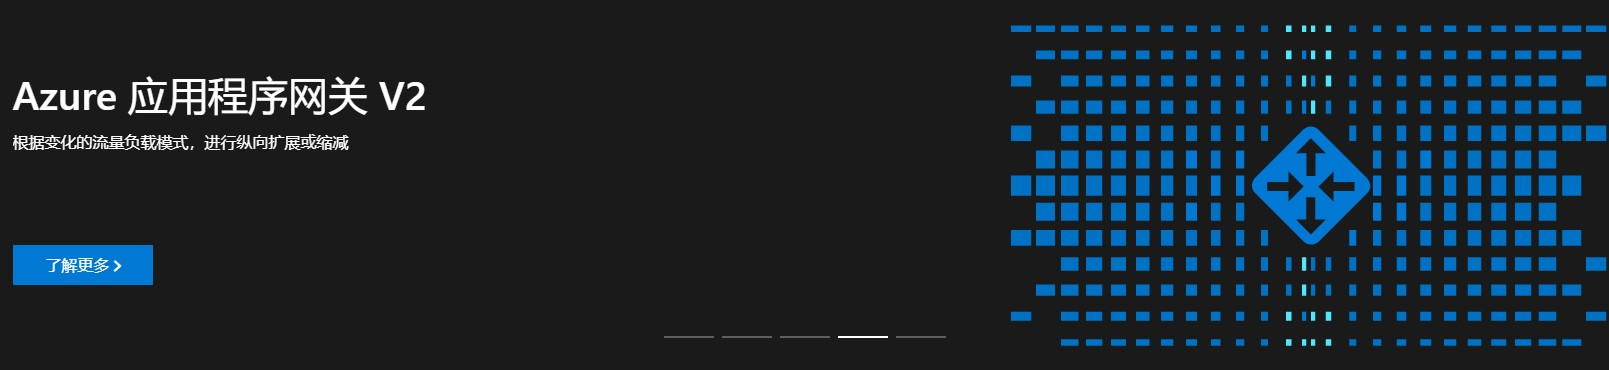
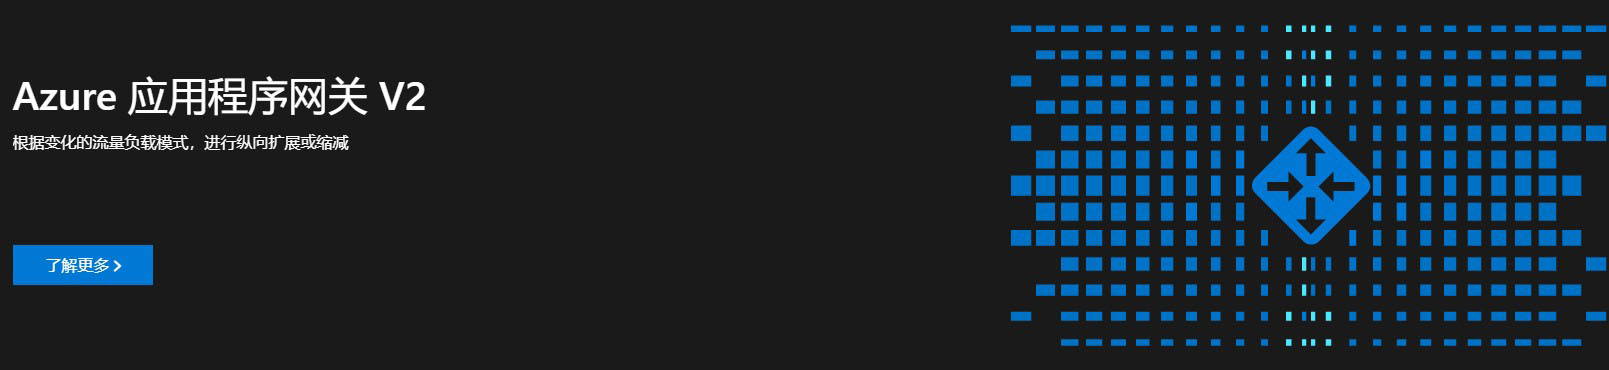
轮播图优化，选项卡制作完成

diff --git a/痛苦作业3/痛苦作业.html b/痛苦作业3/痛苦作业.html
@@ -189,18 +189,81 @@
     <div class="row">
         <ul>
             <li class="auto">电子商务
-                <dd>
-                    <dl></dl>
+                <dd class="aux" style="color: white;">
+                    <h2>电子商务</h2>
+                    <img src="images/row1.png" alt="">
+                    <p>无论你销售的是什么产品，你都需要同时满足客户和业务需求的安全、可缩放电子商务解决方案。通过自定义产品和优惠吸引客户，安全快速地处理事务并专注于产品交付和客户服务。</p>
+                    <div><a href="#">了解更多</a></div>
+                </dd>
+                <dd class="au">
+                    <dl>
+                        <h2>电子商务</h2>
+                        <img src="images/row1.png" alt="">
+                        <p>无论你销售的是什么产品，你都需要同时满足客户和业务需求的安全、可缩放电子商务解决方案。通过自定义产品和优惠吸引客户，安全快速地处理事务并专注于产品交付和客户服务。</p>
+                        <div><a href="#">了解更多</a></div>
+                    </dl>
                 </dd>
             </li>
             <li class="auto">数字媒体
+                <dd class="au">
+                    <dl>
+                        <h2>数字媒体</h2>
+                        <img src="images/row2.png" alt="">
+                        <p>从优质视频内容的全球分发到指导员工和调用其参与度，再到联系客户和进行互动，均可使用媒体的力量来实现企业转变。快速构建和部署视频解决方案、按需扩展，并随时随地使用任何设备交付视频。</p>
+                        <div><a href="#">了解更多</a></div>
+                    </dl>
+                </dd>
             </li>
             <li class="auto">备份与存档
+                <dd class="au">
+                    <dl>
+                        <h2>备份与存档</h2>
+                        <img src="images/row3.png" alt="">
+                        <p>保护驻留在任何位置的数据和应用程序，以避免成本高昂的业务中断或以满足符合性要求。安全地将本地备份存储和数据存档解决方案扩展到云，从而降低成本和复杂性，同时实现高效率和可伸缩性。</p>
+                        <div><a href="#">了解更多</a></div>
+                    </dl>
+                </dd>
             </li>
-            <li class="auto">大数据和分析</li>
-            <li class="auto">开发和测试</li>
-            <li class="auto">游戏</li>
-            <li class="auto">数字营销</li>
+            <li class="auto">大数据和分析
+                <dd class="au">
+                    <dl>
+                        <h2>大数据和分析</h2>
+                        <img src="images/row4.png" alt="">
+                        <p>通过实时分析海量数据，从而提供更好的体验，并做出更好的决策。获取所需的见解以提供智能操作，从而增强客户互动、增加收入并降低成本。</p>
+                        <div><a href="#">了解更多</a></div>
+                    </dl>
+                </dd>
+            </li>
+            <li class="auto">开发和测试
+                <dd class="au">
+                    <dl>
+                        <h2>开发与测试</h2>
+                        <img src="images/row5.png" alt="">
+                        <p>你将更快地提供更多功能 - 保持使用最新的全套开发和测试工具，使你的团队以云速度进行协作和交付。通过可缩放的按需基础结构，根据你的要求快速创建一致的开发和测试环境。</p>
+                        <div><a href="#">了解更多</a></div>
+                    </dl>
+                </dd>
+            </li>
+            <li class="auto">游戏
+                <dd class="au">
+                    <dl>
+                        <h2>游戏</h2>
+                        <img src="images/row6.png" alt="">
+                        <p>在此处构建全球游戏体验，通过安全的全球云和游戏专用服务创建和运行游戏 - 适用于各种规模和预算的 studio。</p>
+                        <div><a href="#">了解更多</a></div>
+                    </dl>
+                </dd>
+            </li>
+            <li class="auto">数字营销
+                <dd class="au">
+                    <dl>
+                        <h2>数字营销</h2>
+                        <img src="images/row7.png" alt="">
+                        <p>利用丰富、个性化的数字营销体验吸引全球的客户。快速构建和启动根据客户需求自动缩放的数字营销活动。凭借强大的数据分析，分析并提高活动的成效。</p>
+                        <div><a href="#">了解更多</a></div>
+                    </dl>
+                </dd>
+            </li>
         </ul>
     </div>
     <div class="a"></div>
@@ -265,57 +328,7 @@
 
         </div>
 </body>
-<script>
-    var pull1 = document.getElementById("main")
-    var menu1 = document.getElementById("lev2")
-    var btn1 = document.getElementById("btn")
-    var change = document.getElementById("view")
-    var oli = document.getElementsByClassName("ali")
-    var ali1 = Array.from(oli)
-    var aauto = document.getElementsByClassName("auto")
-    var i = 0
-    var num = 0
 
-
-    for(i=0;i<aauto.length;i++){
-        aauto[i].onclick = function(){
-            
-        }
-    }
-    ali1[0].className="active"      
-    function changeImg() {
-        if(num==0){
-            ali1[4].className="ali"
-        }
-        if(num>=1){
-            ali1[num-1].className="ali"
-        }
-        
-        change.style.left = "-" + i + "px"
-        ali1[num].className="active"
-        num++
-        i += 1581
-        if (i > 6324) {
-            i = 0
-        }
-        if (num==5){
-            num=0
-        }
-       
-      
-    }
-    setInterval("changeImg()", 1000)
-    function menu() {
-            menu1.style.display = "block"
-        }
-    function menua() {
-            menu1.style.display = "none"
-        }
-    function pull() {
-            pull1.style.height = 1660 + "px"
-            btn1.style.display = "none"
-        }
-
-</script>
+<script src="js.js"></script>
 
 </html>

diff --git a/痛苦作业3/style.css b/痛苦作业3/style.css
@@ -73,7 +73,7 @@ p {
     left: 250px;
     width: 250px;
     background-color: black;
-    z-index: 11;
+    z-index: 22;
 }
 .lev2 li{
     color: white;
@@ -111,7 +111,7 @@ p {
     color: #0078d4;
 }
 .changeimg{
-    height: 430px;
+    height: 442px;
     width: 100%;
     background-color: #1a1a1a;
 }
@@ -123,8 +123,8 @@ p {
 .changeimg ul{
     position: relative;
     top: 340px;
-    left: 605px;
-    z-index: 99;
+    left: 40%;
+    z-index: 11;
 }
 .ali {
     float: left;
@@ -189,7 +189,7 @@ background-color: #e2e6ec;
 .row ul {
     margin-top: 60px;
 }
-.row li {
+.auto {
     color: black;
     margin-left: 100px;
     width: 130px;
@@ -198,23 +198,70 @@ background-color: #e2e6ec;
     cursor: pointer;
     touch-action: manipulation;
 }
-.row li:hover {
+.autox {
     color: white;
+    margin-left: 100px;
+    width: 130px;
+    list-style: none;
+    padding: 10px 20px;
+    cursor: pointer;
+    touch-action: manipulation;
     background-color: black;
 }
 
-.row ul li dd{
+.au{
     display: none;
     position: absolute;
     top: 60px;
     left: 310px;
-    height: 288px;
-    width: 400px;
-    background-color: pink;
+    height: 300px;
+    width: 750px;
+    background-color:  #0078d4;
     cursor: auto;
+    transition: all 1s;
 }
-.row li:hover dd{
+.aux{
     display: block;
+    position: absolute;
+    top: 60px;
+    left: 310px;
+    height: 300px;
+    width: 750px;
+    background-color:  #0078d4;
+    cursor: auto;
+    transition: all 1s;
+}
+.row h2{
+    font-size: 40px;
+    padding-bottom: 20px;
+    font-weight: 400;
+}
+.row p{
+    margin-top: 20px;
+    font-size: 16px;
+    color: white;
+}
+.row div{
+    position: relative;
+    top: 35px;
+    right: 290px;
+    width: 140px;
+    height: 26px;
+    border: 1px solid white;
+    padding: 7px 7px;
+    transition: all 1s;
+}
+.row div:hover{
+    background-color: white;
+    color: #0078d4;
+}
+.row div:hover a{
+    color: #0078d4;
+}
+.row div a{
+    font-size: 16px;
+    text-decoration: none;
+    color: white;
 }
 .a{
     height: 410px;
@@ -238,6 +285,7 @@ background-color: #e2e6ec;
     z-index: 99;
     cursor: pointer;
     border: none;
+    outline: none;
 }
 .title-rd{
    margin: 0 auto;

diff --git a/痛苦作业3/js.js b/痛苦作业3/js.js
@@ -1,14 +1,58 @@
+var pull1 = document.getElementById("main")
+var menu1 = document.getElementById("lev2")
+var btn1 = document.getElementById("btn")
+var change = document.getElementById("view")
+var oli = document.getElementsByClassName("ali")
+var ali1 = Array.from(oli)
+var aauto = document.getElementsByClassName("auto")
+var aauto1 = Array.from(aauto)
+var aau = document.getElementsByClassName("au")
+var aau1 = Array.from(aau)
 var i = 0
 var num = 0
-var oli = 
-var change = document.getElementById("view")
-function changeImg(){
-    i+=1581
-    change.style.left = "-"+ i + "px"
-    oli[num].
-    num++
-    if(i == 6324){
-        i = 0
+
+
+for(let m = 0;m<aauto1.length;m++){
+    aauto1[m].index = m
+    aauto1[m].onclick = function(){
+        for(let j =0;j < aauto1.length;j++){
+            aauto1[j].className = 'auto';
+            aau1[j].className = 'au';
+        }
+        this.className = 'autox';
+        aau1[aauto1[m].index].className = 'aux'
     }
 }
-setInterval("changeImg()",1000)
+ali1[0].className="active"      
+function changeImg() {
+    if(num==0){
+        ali1[4].className="ali"
+    }
+    if(num>=1){
+        ali1[num-1].className="ali"
+    }
+    
+    change.style.left = "-" + i + "px"
+    ali1[num].className="active"
+    num++
+    i += 1581
+    if (i > 6324) {
+        i = 0
+    }
+    if (num==5){
+        num=0
+    }
+   
+  
+}
+setInterval("changeImg()", 1000)
+function menu() {
+        menu1.style.display = "block"
+    }
+function menua() {
+        menu1.style.display = "none"
+    }
+function pull() {
+        pull1.style.height = 1660 + "px"
+        btn1.style.display = "none"
+    }
